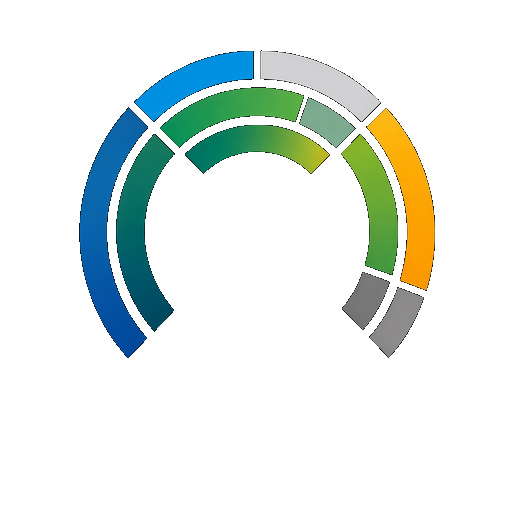
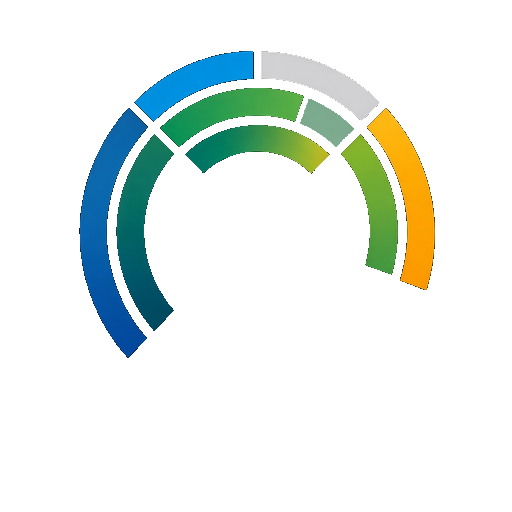
fix(intro): draw rainbow along the arc instead of a horizontal wipe

diff --git a/js/app.js b/js/app.js
@@ -3318,6 +3318,43 @@ function onboardPages(){
   ];
 }
 let introBusy = false;
+let introWipeRaf = 0;
+function setGaugeWipe(gauge, progress){
+  if(!gauge) return;
+  const sweep = 252;
+  const deg = Math.max(0, Math.min(1, progress)) * sweep;
+  const soft = Math.min(6, Math.max(0.5, 252 * 0.02));
+  const mask = `conic-gradient(from 222deg at 50% 44.9%, #000 0deg, #000 ${deg}deg, transparent ${deg + soft}deg)`;
+  gauge.style.webkitMaskImage = mask;
+  gauge.style.maskImage = mask;
+}
+function stopGaugeWipe(){
+  if(introWipeRaf){
+    cancelAnimationFrame(introWipeRaf);
+    introWipeRaf = 0;
+  }
+}
+function playGaugeWipe(gauge, delayMs, durMs){
+  stopGaugeWipe();
+  setGaugeWipe(gauge, 0);
+  const t0 = performance.now();
+  const ease = p => (p < 0.5 ? 2 * p * p : 1 - Math.pow(-2 * p + 2, 2) / 2);
+  const tick = now => {
+    const t = now - t0 - delayMs;
+    if(t < 0){
+      introWipeRaf = requestAnimationFrame(tick);
+      return;
+    }
+    const p = Math.min(1, t / durMs);
+    setGaugeWipe(gauge, ease(p));
+    if(p < 1) introWipeRaf = requestAnimationFrame(tick);
+    else{
+      setGaugeWipe(gauge, 1);
+      introWipeRaf = 0;
+    }
+  };
+  introWipeRaf = requestAnimationFrame(tick);
+}
 function afterIntro(){
   if(!maybeTransfer()) maybeOnboard();
 }
@@ -3325,10 +3362,16 @@ function finishIntro(){
   const el = document.getElementById('intro');
   if(!el || el.hidden || introBusy) return;
   introBusy = true;
+  stopGaugeWipe();
   el.classList.add('out');
   window.setTimeout(() => {
     el.hidden = true;
     el.classList.remove('out', 'play');
+    const gauge = el.querySelector('.intro-gauge');
+    if(gauge){
+      gauge.style.webkitMaskImage = '';
+      gauge.style.maskImage = '';
+    }
     introBusy = false;
     afterIntro();
   }, 420);
@@ -3339,10 +3382,13 @@ function playIntro(){
   introBusy = false;
   el.hidden = false;
   el.classList.remove('out', 'play');
+  const gauge = el.querySelector('.intro-gauge');
+  setGaugeWipe(gauge, 0);
   void el.offsetWidth;
   el.classList.add('play');
+  playGaugeWipe(gauge, 850, 3000);
   el.addEventListener('click', finishIntro, {once:true});
-  window.setTimeout(finishIntro, 5200);
+  window.setTimeout(finishIntro, 5600);
   return true;
 }
 function finishOnboard(){

diff --git a/css/app.css b/css/app.css
@@ -328,24 +328,19 @@
     opacity:0;transform:scale(.9);
   }
   .intro.play .intro-cup{animation:introCup .8s cubic-bezier(.22,.7,.2,1) forwards;}
-  .intro-gauge-clip{
-    position:absolute;top:0;left:0;bottom:0;width:0;overflow:hidden;
-  }
-  .intro.play .intro-gauge-clip{animation:introWipe 2.8s linear .85s forwards;}
   .intro-gauge{
-    position:absolute;top:0;left:0;width:var(--intro-size);height:100%;
-    max-width:none;object-fit:contain;display:block;
+    opacity:1;
+    -webkit-mask-image:conic-gradient(from 222deg at 50% 44.9%, #000 0deg, transparent 0deg);
+    mask-image:conic-gradient(from 222deg at 50% 44.9%, #000 0deg, transparent 0deg);
+    -webkit-mask-size:100% 100%;mask-size:100% 100%;
+    -webkit-mask-repeat:no-repeat;mask-repeat:no-repeat;
   }
   .intro-name{
     font-size:clamp(1.9rem,7.5vw,2.45rem);font-weight:800;letter-spacing:.12em;text-transform:uppercase;
     color:#fff;opacity:0;
   }
-  .intro.play .intro-name{animation:introName .6s ease 3.7s forwards;}
+  .intro.play .intro-name{animation:introName .6s ease 4s forwards;}
   @keyframes introCup{to{opacity:1;transform:scale(1)}}
-  @keyframes introWipe{
-    from{width:0;}
-    to{width:100%;}
-  }
   @keyframes introName{to{opacity:1}}
   @keyframes introFade{to{opacity:0}}
   .onboard,.preview-modal{

diff --git a/index.html b/index.html
@@ -417,9 +417,7 @@ window.ffkIsNative = function () {
 
   <div class="intro" id="intro">
     <div class="intro-stage">
-      <div class="intro-gauge-clip">
-        <img class="intro-layer intro-gauge" src="icons/intro-gauge.png" alt="">
-      </div>
+      <img class="intro-layer intro-gauge" src="icons/intro-gauge.png" alt="">
       <img class="intro-layer intro-cup" src="icons/intro-cup.png" alt="">
     </div>
     <div class="intro-name">Matchcard</div>

diff --git a/sw.js b/sw.js
@@ -1,4 +1,4 @@
-const CACHE = 'ffk_v54';
+const CACHE = 'ffk_v55';
 const ASSETS = [
   './',
   './index.html',
